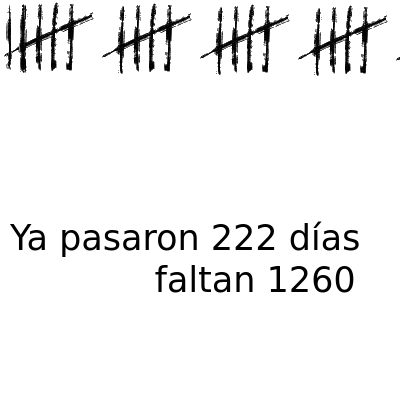
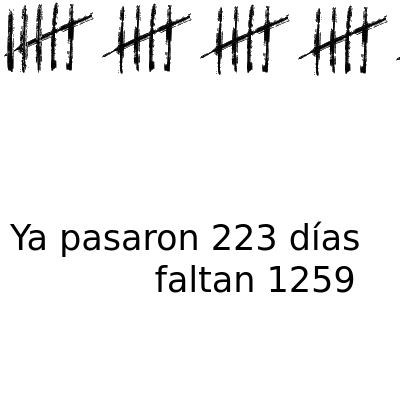
deploy: 28882f26f23b9f53dac6c4991168e610486d0e44

Changed region(s): [[0.0, 0.0, 0.12, 0.18], [0.78, 0.66, 0.9, 0.75], [0.63, 0.57, 0.69, 0.63]]

diff --git a/index.html b/index.html
@@ -3,19 +3,19 @@
   <head>
     <meta charset='utf-8'>
     <meta http-equiv='X-UA-Compatible' content='IE=edge'>
-    <title>Ya pasaron 222 días y faltan 1260</title>
-    <meta name="description" content="Ya pasaron 222 días y faltan 1260">
-    <meta itemprop="name" content="Ya pasaron 222 días y faltan 1260">
-    <meta itemprop="description" content="Ya pasaron 222 días y faltan 1260">
+    <title>Ya pasaron 223 días y faltan 1259</title>
+    <meta name="description" content="Ya pasaron 223 días y faltan 1259">
+    <meta itemprop="name" content="Ya pasaron 223 días y faltan 1259">
+    <meta itemprop="description" content="Ya pasaron 223 días y faltan 1259">
     <meta name="twitter:card" content="summary">
-    <meta name="twitter:title" content="Ya pasaron 222 días y faltan 1260">
-    <meta name="twitter:description" content="Ya pasaron 222 días y faltan 1260">
+    <meta name="twitter:title" content="Ya pasaron 223 días y faltan 1259">
+    <meta name="twitter:description" content="Ya pasaron 223 días y faltan 1259">
     <meta name="twitter:creator" content="@FloriusWasTaken">
     <meta name="twitter:image" content="https://pasaron.meme.ar/capture.png">
-    <meta property="og:title" content="Ya pasaron 222 días y faltan 1260">
-    <meta property="og:description" content="Ya pasaron 222 días y faltan 1260">
+    <meta property="og:title" content="Ya pasaron 223 días y faltan 1259">
+    <meta property="og:description" content="Ya pasaron 223 días y faltan 1259">
     <meta property="og:url" content="https://pasaron.meme.ar">
-    <meta property="og:site_name" content="Ya pasaron 222 días y faltan 1260">
+    <meta property="og:site_name" content="Ya pasaron 223 días y faltan 1259">
     <meta property="og:type" content="website">
     <meta property="og:image" content="https://pasaron.meme.ar/capture.png">
     <meta name="theme-color" content="#dc143c">
@@ -69,18 +69,18 @@
         padding: 0;
       }
     </style>
-    <title>Ya pasaron 222 días y faltan 1260</title>
+    <title>Ya pasaron 223 días y faltan 1259</title>
   </head>
   <body>
     <div id="main">
       <img src="img/5.png"/><img src="img/5.png"/><img src="img/5.png"/><img src="img/5.png"/><img src="img/5.png"/><img src="img/5.png"/><img src="img/5.png"/><img src="img/5.png"/><img src="img/5.png"/><img src="img/5.png"/><img src="img/5.png"/><img src="img/5.png"/><img src="img/5.png"/><img src="img/5.png"/><img src="img/5.png"/><img src="img/5.png"/><img src="img/5.png"/><img src="img/5.png"/><img src="img/5.png"/><img src="img/5.png"/><img src="img/5.png"/><img src="img/5.png"/><img src="img/5.png"/><img src="img/5.png"/><img src="img/5.png"/><img src="img/5.png"/><img src="img/5.png"/><img src="img/5.png"/><img src="img/5.png"/><img src="img/5.png"/><img src="img/5.png"/><img src="img/5.png"/><img src="img/5.png"/><img src="img/5.png"/><img src="img/5.png"/><img src="img/5.png"/><img src="img/5.png"/><img src="img/5.png"/><img src="img/5.png"/><img src="img/5.png"/><img src="img/5.png"/><img src="img/5.png"/><img src="img/5.png"/><img src="img/5.png"/>
       
-        <img src="img/2.png"/>
+        <img src="img/3.png"/>
       
     </div>
     <footer id="footer">
       <marquee id="marquee" class="is-vertical-align">
-        Ya pasaron 222 días y faltan 1260
+        Ya pasaron 223 días y faltan 1259
       </marquee>
       <ul>
         <li>
